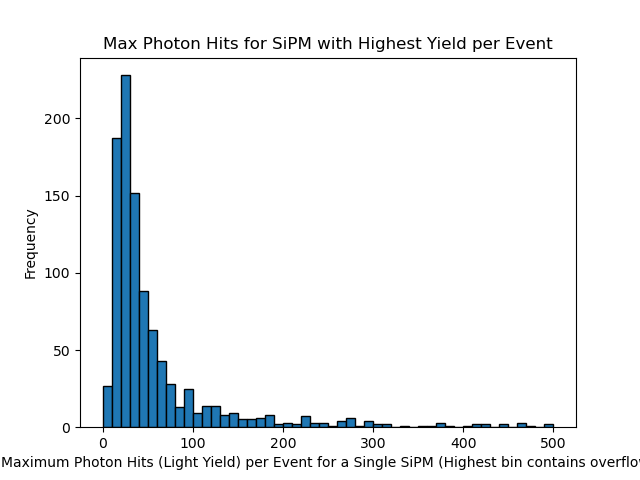
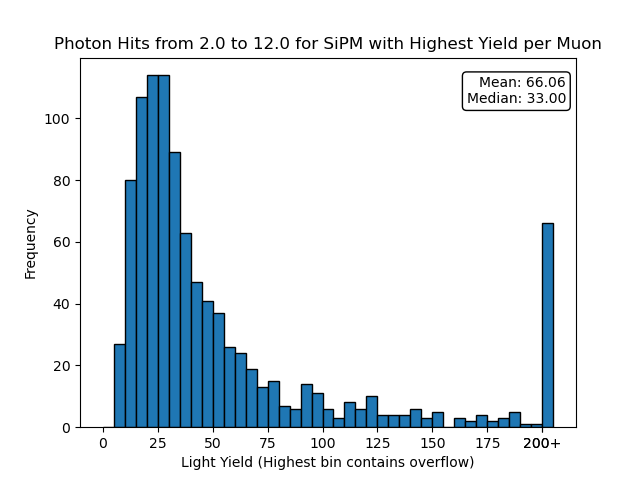
average max yield fixed. implementing plots for all max->min. issues with sorted alg.

diff --git a/plot_average_max_yield.py b/plot_average_max_yield.py
@@ -1,7 +1,9 @@
+'''
 import pandas as pd
 import matplotlib.pyplot as plt
 import argparse
 import csv
+import numpy as np
 
 # Parse command line arguments
 parser = argparse.ArgumentParser(description="Plot maximum light yield per event within a specified time interval.")
@@ -31,12 +33,39 @@ for eventId, group in grouped.groupby(level=0):
     max_hits = group.max()
     photon_hits_per_event[eventId] = max_hits
 
-# Create histogram data and set overflow bin for values above 500
+# Create histogram data and set overflow bin for values above 200
 max_photon_hits = list(photon_hits_per_event.values())
-plt.hist(max_photon_hits, bins=list(range(0, 501, 10)) + [float('inf')], edgecolor='black')
-plt.xlabel("Maximum Photon Hits (Light Yield) per Event for a Single SiPM (Highest bin contains overflow)")
+# Define custom bins with an overflow bin
+bins = list(range(0, 201, 5)) + [float('inf')]  # Bins up to 200 with size 5, and one overflow bin
+
+# Create the histogram
+counts, edges = np.histogram(max_photon_hits, bins=bins)
+
+# Adjust the last bin label for clarity
+plt.bar(edges[:-1], counts, width=5, align='edge', edgecolor='black')
+
+# Replace the last bin label with '200+'
+xticks_labels = list(range(0, 201, 25)) + ['200+']  # Tick marks every 25 units, label overflow
+xticks_positions = list(range(0, 201, 25)) + [200]
+
+plt.xticks(ticks=xticks_positions, labels=xticks_labels)
+
+plt.xlabel("Light Yield (Highest bin contains overflow)")
 plt.ylabel("Frequency")
-plt.title("Max Photon Hits for SiPM with Highest Yield per Event")
+plt.title(f'Photon Hits from {args.time_lower} to {args.time_upper} for SiPM with Highest Yield per Muon')
+
+# Calculate and display mean and median
+mean_hits = np.mean(max_photon_hits)
+median_hits = np.median(max_photon_hits)
+plt.text(
+    0.98, 0.95,
+    f"Mean: {mean_hits:.2f}\nMedian: {median_hits:.2f}",
+    transform=plt.gca().transAxes,
+    fontsize=10,
+    ha='right',
+    va='top',
+    bbox=dict(boxstyle="round", edgecolor="black", facecolor="white")
+)
 
 # Save the histogram plot
 plt.savefig("max_light_yield_histogram.png")
@@ -47,5 +76,116 @@ with open(args.output_csv, mode='w', newline='') as file:
     writer.writerow(["EventId", "MaxPhotonHits"])
     for eventId, max_hits in photon_hits_per_event.items():
         writer.writerow([eventId, max_hits])
+    writer.writerow([])  # Blank line
+    writer.writerow(["Mean", mean_hits])
+    writer.writerow(["Median", median_hits])
+
+plt.show()
+'''
+import pandas as pd
+import matplotlib.pyplot as plt
+import argparse
+import csv
+import numpy as np
+
+# Parse command line arguments
+parser = argparse.ArgumentParser(description="Plot photon yields per event for 1st, 2nd, 3rd, and lowest SiPM.")
+parser.add_argument("csv_file", help="Path to the CSV file containing the data.")
+parser.add_argument("output_csv", help="Path to the output CSV file to save histogram data.")
+parser.add_argument("time_lower", type=float, help="Lower bound of the time interval.")
+parser.add_argument("time_upper", type=float, help="Upper bound of the time interval.")
+args = parser.parse_args()
+
+# Read the CSV file, skip the first 8 header lines
+df = pd.read_csv(args.csv_file, header=None, skiprows=8)
+
+# Rename columns for clarity
+df.columns = ['eventId', 'copyNo', 'energy', 'fT']
+
+# Filter for the time interval
+df = df[(df['fT'] >= args.time_lower) & (df['fT'] <= args.time_upper)]
+
+# Dictionary to store the photon hits per event per detector
+photon_hits_per_event = {}
+
+# Group by eventId and copyNo to count the number of hits per detector for each event
+grouped = df.groupby(['eventId', 'copyNo']).size()
+
+# Iterate through each event to find the photon hits per detector
+for eventId, group in grouped.groupby(level=0):
+    # Create a list of hits for the SiPMs in this event (SiPMs are 1, 2, 3, 4)
+    event_hits = [group.get(copyNo, 0) for copyNo in range(1, 5)]
+    photon_hits_per_event[eventId] = event_hits
+
+# Prepare lists for the highest, second highest, third highest, and lowest photon yields
+highest_yields = []
+second_highest_yields = []
+third_highest_yields = []
+lowest_yields = []
+
+# Iterate over photon hits per event (each event has a list of SiPM yields)
+for event_hits in photon_hits_per_event.values():
+    # Ensure event_hits contains 4 values (pad with 0 if fewer than 4 SiPMs)
+    while len(event_hits) < 4:
+        event_hits.append(0)
+
+    # Sort the yields in descending order
+    event_hits_sorted = sorted(event_hits, reverse=True)
+
+    # Append the corresponding photon yields to each list
+    highest_yields.append(event_hits_sorted[0])
+    second_highest_yields.append(event_hits_sorted[1])
+    third_highest_yields.append(event_hits_sorted[2])
+    lowest_yields.append(event_hits_sorted[3])  # This is now guaranteed to be the smallest (last) yield
+
+# Create histograms for the photon yields of the 1st, 2nd, 3rd, and lowest SiPMs
+fig, axs = plt.subplots(2, 2, figsize=(12, 10))
+
+# Define custom bins with an overflow bin for values above 200 and a bin size of 5
+bins = list(range(0, 201, 5)) + [float('inf')]  # Bins up to 200 with size 5, and one overflow bin
+
+# Plot for the highest yield (1st SiPM)
+axs[0, 0].hist(highest_yields, bins=bins, edgecolor='black')
+axs[0, 0].set_title('Highest Photon Yield per Event (SiPM 1st)')
+axs[0, 0].set_xlabel('Light Yield (Highest bin contains overflow)')
+axs[0, 0].set_ylabel('Frequency')
+axs[0, 0].set_xticks(list(range(0, 201, 25)) + [200])
+axs[0, 0].set_xticklabels(list(range(0, 201, 25)) + ['200+'])
+
+# Plot for the second highest yield (2nd SiPM)
+axs[0, 1].hist(second_highest_yields, bins=bins, edgecolor='black')
+axs[0, 1].set_title('2nd Highest Photon Yield per Event (SiPM 2nd)')
+axs[0, 1].set_xlabel('Light Yield (Highest bin contains overflow)')
+axs[0, 1].set_ylabel('Frequency')
+axs[0, 1].set_xticks(list(range(0, 201, 25)) + [200])
+axs[0, 1].set_xticklabels(list(range(0, 201, 25)) + ['200+'])
+
+# Plot for the third highest yield (3rd SiPM)
+axs[1, 0].hist(third_highest_yields, bins=bins, edgecolor='black')
+axs[1, 0].set_title('3rd Highest Photon Yield per Event (SiPM 3rd)')
+axs[1, 0].set_xlabel('Light Yield (Highest bin contains overflow)')
+axs[1, 0].set_ylabel('Frequency')
+axs[1, 0].set_xticks(list(range(0, 201, 25)) + [200])
+axs[1, 0].set_xticklabels(list(range(0, 201, 25)) + ['200+'])
+
+# Plot for the lowest yield (4th SiPM)
+axs[1, 1].hist(lowest_yields, bins=bins, edgecolor='black')
+axs[1, 1].set_title('Lowest Photon Yield per Event (SiPM 4th)')
+axs[1, 1].set_xlabel('Light Yield (Highest bin contains overflow)')
+axs[1, 1].set_ylabel('Frequency')
+axs[1, 1].set_xticks(list(range(0, 201, 25)) + [200])
+axs[1, 1].set_xticklabels(list(range(0, 201, 25)) + ['200+'])
+
+# Adjust layout and save the figure
+plt.tight_layout()
+plt.savefig("photon_yield_plots.png")
+
+# Save histogram data to CSV
+with open(args.output_csv, mode='w', newline='') as file:
+    writer = csv.writer(file)
+    writer.writerow(["EventId", "HighestYield", "SecondHighestYield", "ThirdHighestYield", "LowestYield"])
+    for eventId, hits in photon_hits_per_event.items():
+        sorted_hits = sorted(hits, reverse=True)
+        writer.writerow([eventId] + sorted_hits)
 
 plt.show()
